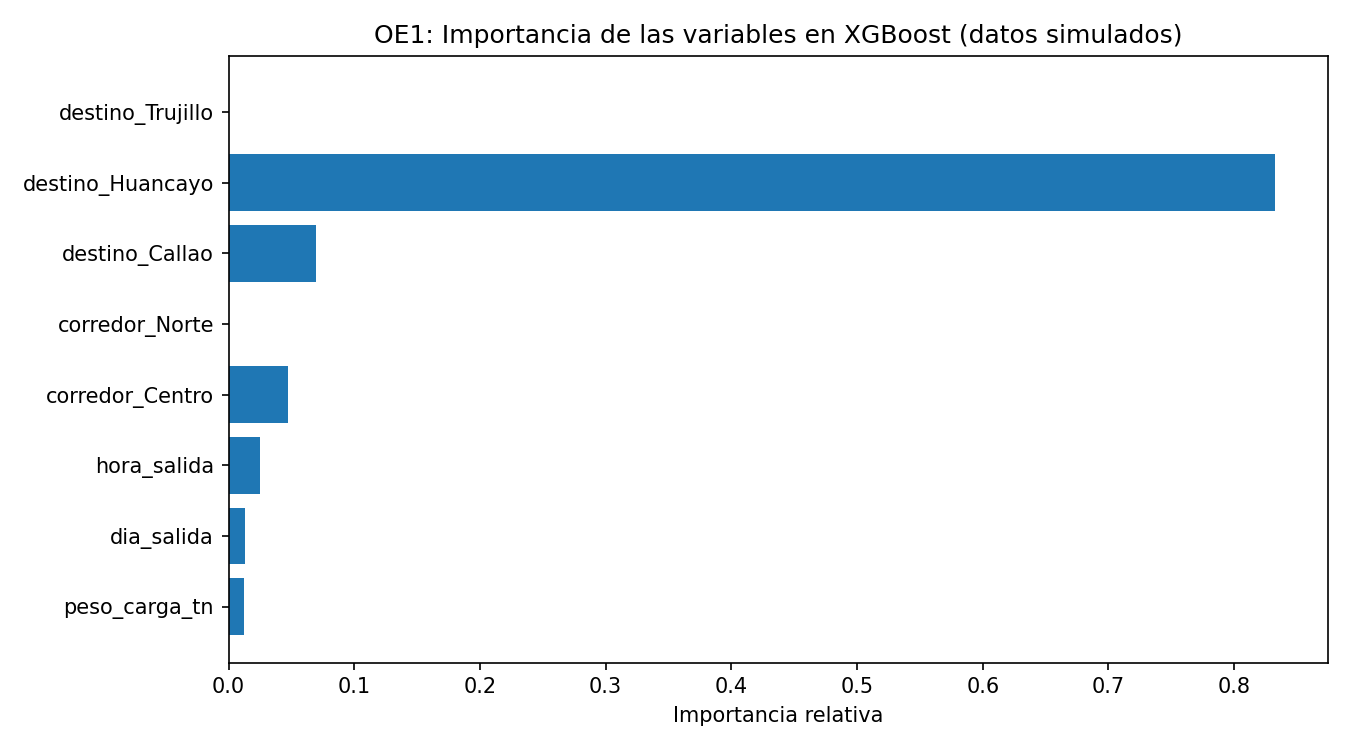
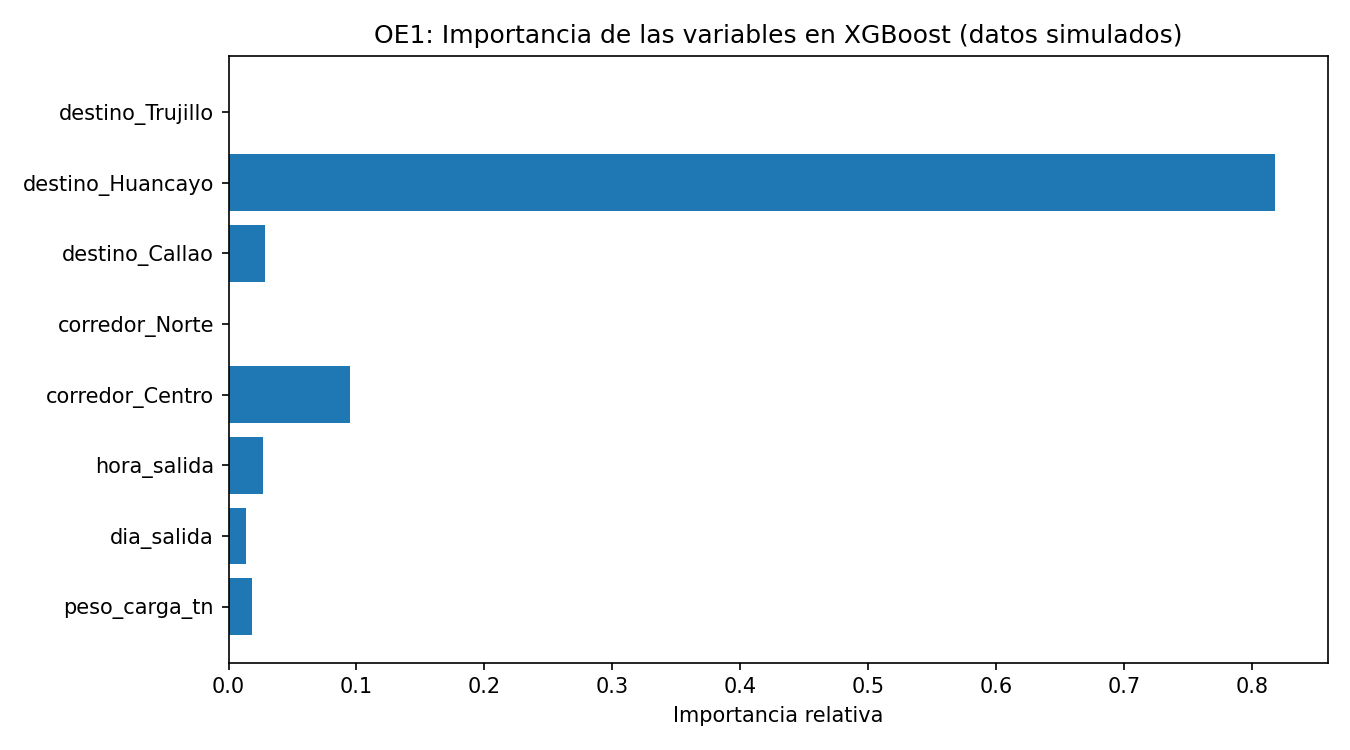
Mostrar promedio real de BD como sugerencia en prueba interactiva de OE3

diff --git a/consola/OE3_Carga_Retorno/modelo.py b/consola/OE3_Carga_Retorno/modelo.py
@@ -109,11 +109,17 @@ def principal(interfaz=False):
 
     # 7. PROBAR 1 RETORNO INGRESANDO DATOS
     print("\n--- PROBAR PREDICCIÓN DE 1 RETORNO ---")
-    origen = input("Ciudad de retorno hacia Callao (Huancayo / Trujillo): ")
+    origen = input("Ciudad de retorno hacia Callao (Huancayo / Trujillo): ").strip().title()
     dia = int(input("Día de entrega pactada (1=Lunes a 7=Domingo): "))
     quincena = int(input("Quincena del mes (1=Primera / 2=Segunda): "))
     solicitudes = int(input("Solicitudes compatibles disponibles (0 a 5): "))
-    proporcion = float(input("Proporción histórica previa (ej. 0.65): "))
+
+    # Obtener el promedio real de los últimos 10 retornos de esa ciudad en la BD
+    ultimos = datos[datos["origen_retorno"].str.lower() == origen.lower()].tail(10)
+    avg_real = round(float(ultimos["retorno_con_carga"].mean()), 2) if len(ultimos) > 0 else 0.50
+
+    entrada_prop = input(f"Proporción histórica previa [Actual en BD: {avg_real:.2f}] (Enter para actual o ingresa valor): ").strip()
+    proporcion = float(entrada_prop) if entrada_prop else avg_real
 
     # Armar la tabla de 1 sola línea con los datos ingresados
     fila_nueva = pd.DataFrame([{
